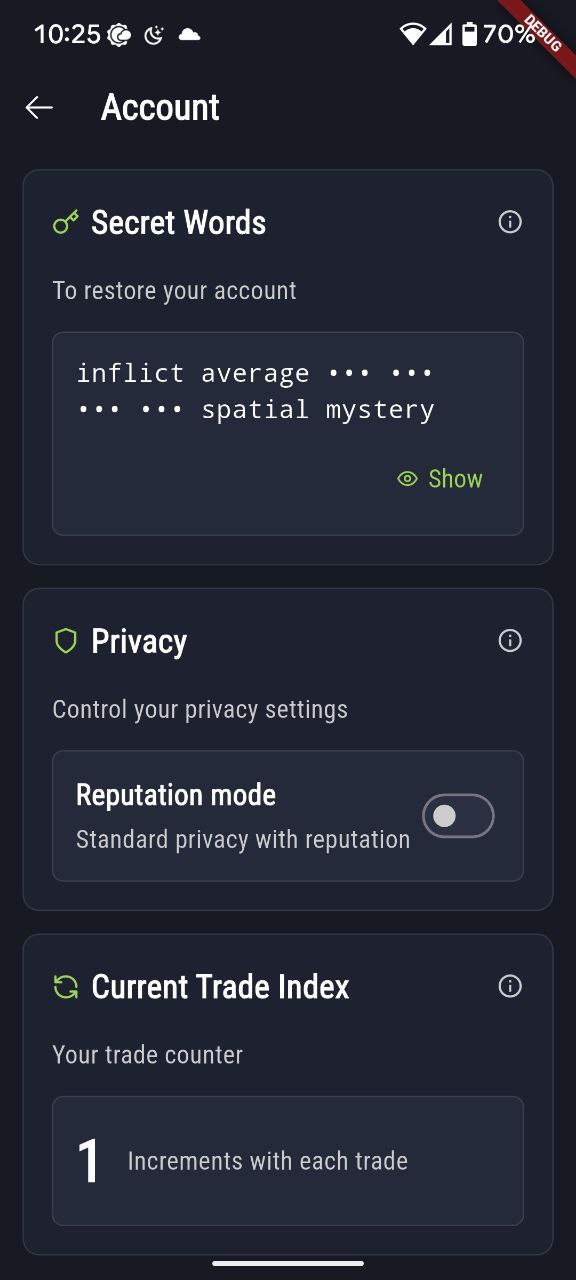
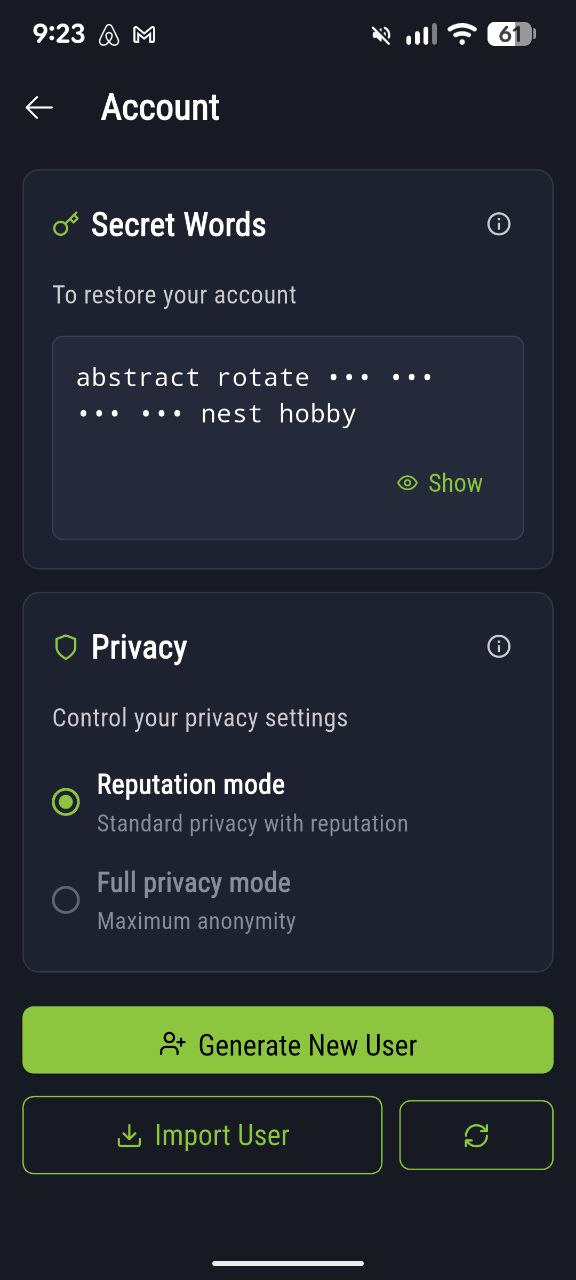
Update screenshots and changelog file

diff --git a/CHANGELOG.md b/CHANGELOG.md
@@ -5,6 +5,29 @@ All notable changes to this project will be documented in this file.
 The format is based on [Keep a Changelog](https://keepachangelog.com/en/1.0.0/),
 and this project adheres to [Semantic Versioning](https://semver.org/spec/v2.0.0.html).
 
+## [v1.1.0]
+
+### Added
+- **Logger Singleton Migration** (#429): Migrated entire codebase to singleton logger pattern for consistent logging
+- **Logger Background Integration** (#406): Logger service with background isolate support
+- **Share and Save Log Files** (#412): Export and share application logs
+- **Logs Recording Indicator**: Visual indicator showing when log capture is active
+- **Notification Settings Screen** (#408): Push notification preferences UI (Phase 4)
+- **Android Background Permissions** (#421): Added permissions for background service reliability
+- **About Screen Improvements** (#411): Enhanced about screen with additional info
+
+### Fixed
+- **Background Notifications Not Showing** (#428): Resolved SendPort serialization issue preventing background notifications
+- **NostrService Relay Updates** (#426): Replaced disconnect-reconnect with additive initialization in `updateSettings`
+- **SnackBar Navigation Overlap** (#413): Moved SnackBars to top of screen to avoid blocking bottom navigation
+
+### Changed
+- **UI Improvements Phase 2** (#419): Visual refinements and layout enhancements
+- **Toggles and Buttons** (#430): Improved toggle switches and button styling with shared MostroSwitch widget
+- **Drawer Mostro Logo** (#431): Updated drawer logo
+- **Internationalized SnackBar Messages** (#424): Replaced hardcoded SnackBar strings with localized versions
+- **Auto-Generated Files** (#417): Updated gitignore and documentation for generated files
+
 ## [v1.0.7]
 
 ### Added
